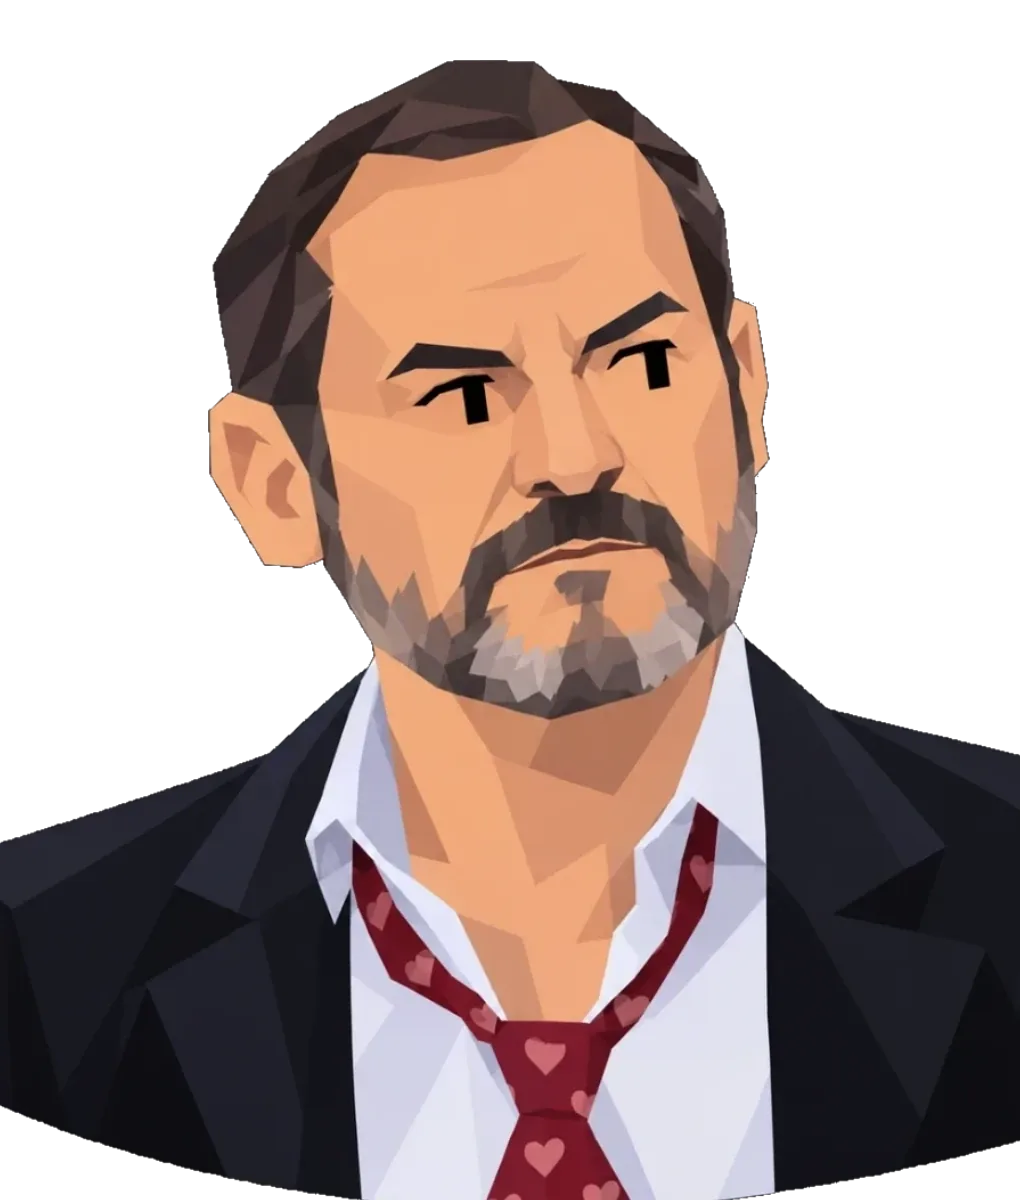
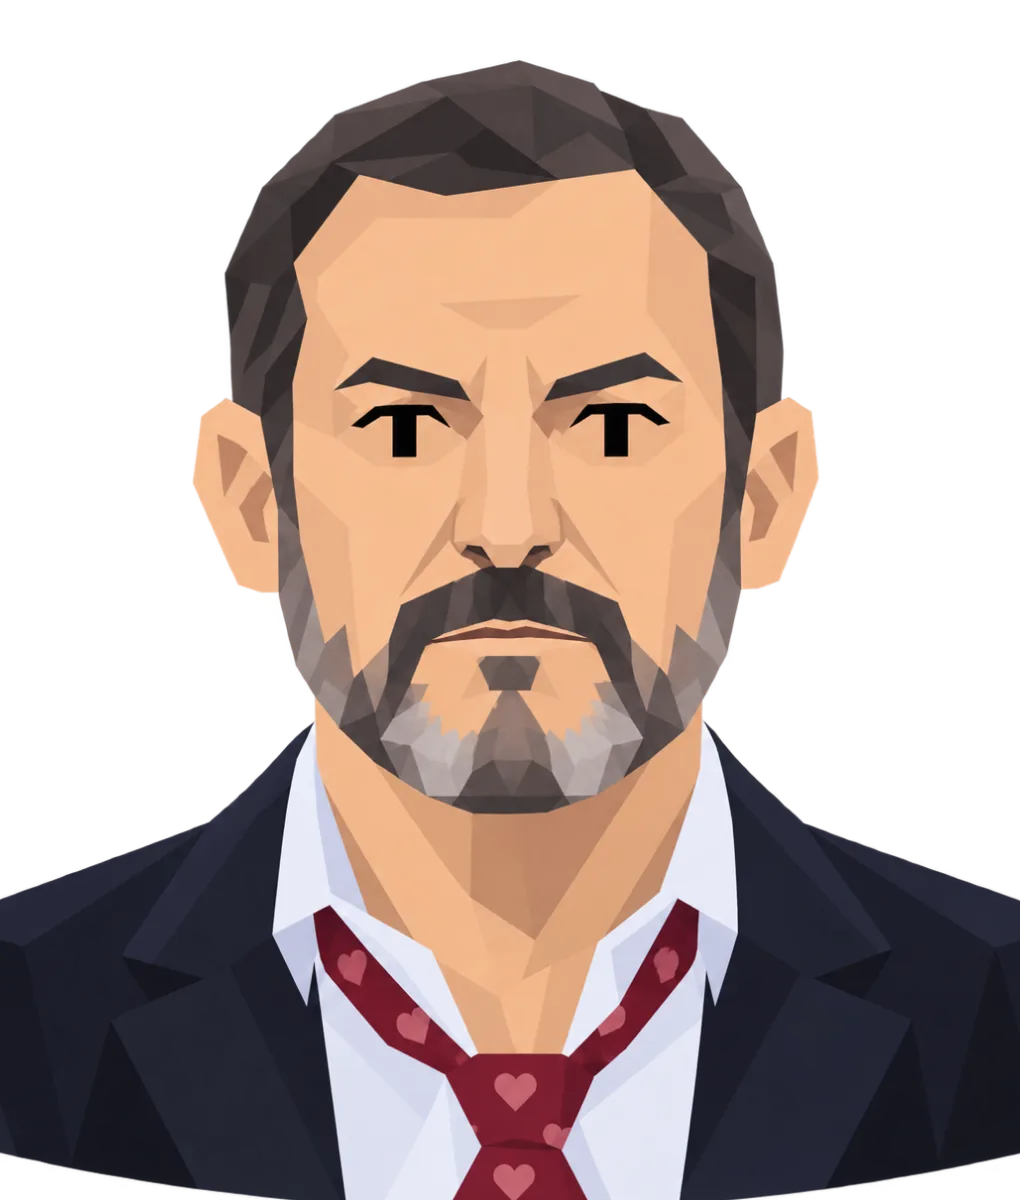
Retratos nuevos del Ministro Caido, el Escudero y la Socia Incomoda
Los tres con la marca negra plana en T de los ojos, comprobado contra presi.

Dos venian con el nombre cambiado: ministrocurrupto (con u) y "socia
incomoda" con un espacio, que en una URL habria que escapar. Renombrados a
los que usan las cartas.

Y el recortador aprende algo. La socia llegaba con fondo NEGRO solido (95%
opaco, negro puro junto a la cabeza) y el script la daba por buena, porque
solo quitaba fondos claros: un gris intermedio es exactamente el color de una
americana y no hay forma de distinguirlos.

Ahora acepta tambien fondos casi negros, y nada de en medio. Se puede porque
el relleno va por contiguidad desde el borde: el negro puro SI esta en el arte
(los ojos en T, la toga del juez, media chaqueta del periodista) pero esos
estan encerrados por la cara o la figura, asi que no se tocan. Comprobado: en
la socia quita el 39% de fondo y deja intactos pelo, ojos y camiseta. El
riesgo que queda -una chaqueta negra que llegue al borde de abajo- lo corta el
tope de MAX_BORRADO, que aborta y deja el archivo como estaba.

De paso el reencuadre la escala para llenar el lienzo, que con el fondo negro
pegado no podia: pasa de 95% a 69% opaco.

  ministro corrupto  59% opaco, 64 KB, fondo de carta #262228
  escudero           59% opaco, 87 KB, fondo #615858
  socia incomoda     69% opaco, 59 KB, fondo #30090e

diff --git a/src/data/coloresRetrato.ts b/src/data/coloresRetrato.ts
@@ -5,7 +5,7 @@
 // con `node scripts/colores-retrato.mjs` cada vez que anadas o cambies un
 // retrato; lo que no este aqui cae al color por defecto y no rompe nada.
 export const COLOR_RETRATO: Record<string, string> = {
-  'cruzado.webp': '#221f15',
+  'cruzado.webp': '#222015',
   'encuestador.webp': '#24232f',
   'exiliadopesado.webp': '#1a1c25',
   'expresidentecompetente.webp': '#171620',
@@ -13,18 +13,18 @@ export const COLOR_RETRATO: Record<string, string> = {
   'fiscal.webp': '#232124',
   'guru.webp': '#372525',
   'hermano.webp': '#14141b',
-  'independentista.webp': '#26262c',
+  'independentista.webp': '#26262b',
   'jefecomunicacion.webp': '#0d101e',
   'juez.webp': '#111010',
   'ministraincompetente.webp': '#42444c',
-  'ministrocorrupto.webp': '#2d292d',
-  'ministrolameculos.webp': '#0e111e',
+  'ministrocorrupto.webp': '#262228',
+  'ministrolameculos.webp': '#615858',
   'mopongo.webp': '#452625',
   'oposicionsuave.webp': '#1f232f',
   'periodista.webp': '#0b090b',
   'presi.webp': '#2f2932',
   'presidentaregional.webp': '#522327',
   'primeradama.webp': '#5c4e44',
-  'sociaincomoda.webp': '#1f1223',
+  'sociaincomoda.webp': '#30090e',
   'vicepresi.webp': '#4a443f',
 }
